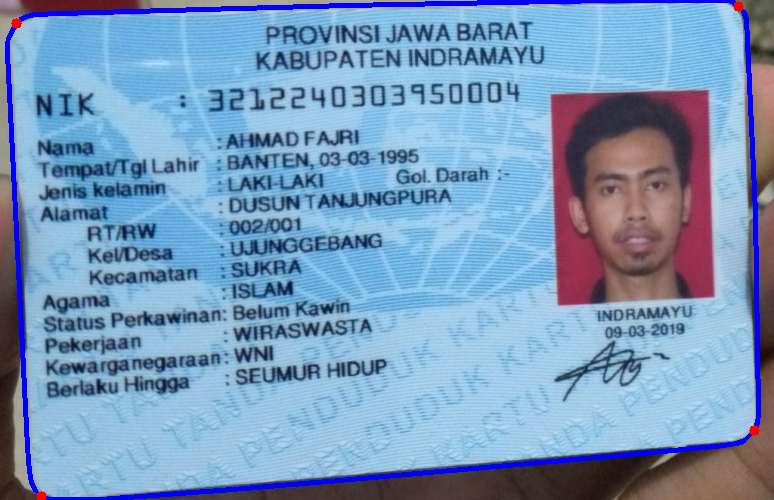
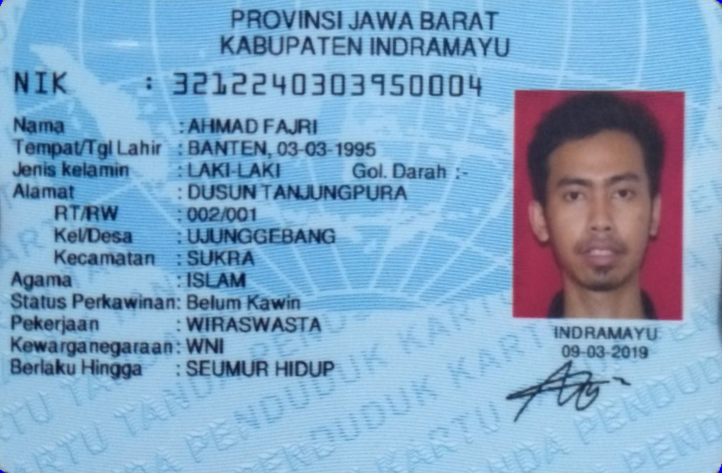
flatten image to bird eye view

diff --git a/main.py b/main.py
@@ -51,18 +51,20 @@ def processKTP(image_path):
         # draw the convexhull on the original image
         cv2.drawContours(image, [hull], -1, (255, 0, 0), 3)
 
+        # get 4 corners of the contour
         points = orderPoints(hull)
-        (tl, tr, bl, br) = points
-        cv2.circle(image, (tl[0], tl[1]), 5, (0,0,255), -1)
-        cv2.circle(image, (tr[0], tr[1]), 5, (0,0,255), -1)
-        cv2.circle(image, (bl[0], bl[1]), 5, (0,0,255), -1)
-        cv2.circle(image, (br[0], br[1]), 5, (0,0,255), -1)
+        # (tl, tr, bl, br) = points
+        # cv2.circle(image, (tl[0], tl[1]), 5, (0,0,255), -1)
+        # cv2.circle(image, (tr[0], tr[1]), 5, (0,0,255), -1)
+        # cv2.circle(image, (bl[0], bl[1]), 5, (0,0,255), -1)
+        # cv2.circle(image, (br[0], br[1]), 5, (0,0,255), -1)
 
-    # cv2.imshow("image", image)
-    # cv2.imshow("res", res)
-    # cv2.imshow("thres", threshold)
-    # cv2.imshow("edged", edged)
-    cv2.imwrite("results/" + image_path.replace("training_images/", ""), image)
+        # transform to flattened image (bird view)
+        res = fourPointTransform(image, points)
+
+        cv2.imwrite("results/" + image_path.replace("training_images/", ""), res)
+    else:
+        print("Error processing image")
 
 def orderPoints(hull):
     pts = np.array(map(lambda x: x[0], hull))
@@ -71,7 +73,7 @@ def orderPoints(hull):
     # such that the first entry in the list is the top-left,
     # the second entry is the top-right, the third is the
     # bottom-right, and the fourth is the bottom-left
-    rect = np.zeros((4, 2), dtype = "int32")
+    rect = np.zeros((4, 2), dtype = "float32")
 
     # the top-left point will have the smallest sum, whereas
     # the bottom-right point will have the largest sum
@@ -89,6 +91,45 @@ def orderPoints(hull):
 
     # return the ordered coordinates
     return rect
+
+# reference: https://www.pyimagesearch.com/2014/08/25/4-point-opencv-getperspective-transform-example/
+def fourPointTransform(image, pts):
+    # obtain a consistent order of the points and unpack them
+    # individually
+    (tl, tr, br, bl) = pts
+
+    # compute the width of the new image, which will be the
+    # maximum distance between bottom-right and bottom-left
+    # x-coordiates or the top-right and top-left x-coordinates
+    # use pythagorean theorem to get the distance
+    widthA = np.sqrt(((br[0] - bl[0]) ** 2) + ((br[1] - bl[1]) ** 2))
+    widthB = np.sqrt(((tr[0] - tl[0]) ** 2) + ((tr[1] - tl[1]) ** 2))
+    maxWidth = max(int(widthA), int(widthB))
+
+    # compute the height of the new image, which will be the
+    # maximum distance between the top-right and bottom-right
+    # y-coordinates or the top-left and bottom-left y-coordinates
+    heightA = np.sqrt(((tr[0] - br[0]) ** 2) + ((tr[1] - br[1]) ** 2))
+    heightB = np.sqrt(((tl[0] - bl[0]) ** 2) + ((tl[1] - bl[1]) ** 2))
+    maxHeight = max(int(heightA), int(heightB))
+
+    # now that we have the dimensions of the new image, construct
+    # the set of destination points to obtain a "birds eye view",
+    # (i.e. top-down view) of the image, again specifying points
+    # in the top-left, top-right, bottom-right, and bottom-left
+    # order
+    dst = np.array([
+	    [0, 0],
+	    [maxWidth - 1, 0],
+	    [maxWidth - 1, maxHeight - 1],
+	    [0, maxHeight - 1]], dtype = "float32")
+
+    # compute the perspective transform matrix and then apply it
+    M = cv2.getPerspectiveTransform(pts, dst)
+    warped = cv2.warpPerspective(image, M, (maxWidth, maxHeight))
+
+    # return the warped image
+    return warped
 
 if __name__ == '__main__':
     main()

diff --git a/README.md b/README.md
@@ -3,10 +3,22 @@ Using OpenCV and image recognition to parse data and validate Indonesian identif
 
 ## Examples
 
-<img src="https://raw.githubusercontent.com/obedtandadjaja/identitas/master/results/ktp-1.png" width="400" />
-<img src="https://raw.githubusercontent.com/obedtandadjaja/identitas/master/results/ktp-2.png" width="400" />
-<img src="https://raw.githubusercontent.com/obedtandadjaja/identitas/master/results/ktp-3.png" width="400" />
-<img src="https://raw.githubusercontent.com/obedtandadjaja/identitas/master/results/ktp-4.png" width="400" />
+<div style="display:inline-block">
+  <img src="https://raw.githubusercontent.com/obedtandadjaja/identitas/master/training_images/ktp-1.png" width="400" />
+  <img src="https://raw.githubusercontent.com/obedtandadjaja/identitas/master/results/ktp-1.png" width="400" />
+</div>
+<div style="display:inline-block">
+  <img src="https://raw.githubusercontent.com/obedtandadjaja/identitas/master/training_image/ktp-2.png" width="400" />
+  <img src="https://raw.githubusercontent.com/obedtandadjaja/identitas/master/results/ktp-2.png" width="400" />
+</div>
+<div style="display:inline-block">
+  <img src="https://raw.githubusercontent.com/obedtandadjaja/identitas/master/training_images/ktp-3.png" width="400" />
+  <img src="https://raw.githubusercontent.com/obedtandadjaja/identitas/master/results/ktp-3.png" width="400" />
+</div>
+<div style="display:inline-block">
+  <img src="https://raw.githubusercontent.com/obedtandadjaja/identitas/master/training_images/ktp-4.png" width="400" />
+  <img src="https://raw.githubusercontent.com/obedtandadjaja/identitas/master/results/ktp-4.png" width="400" />
+</div>
 
 ## Future Work
 
